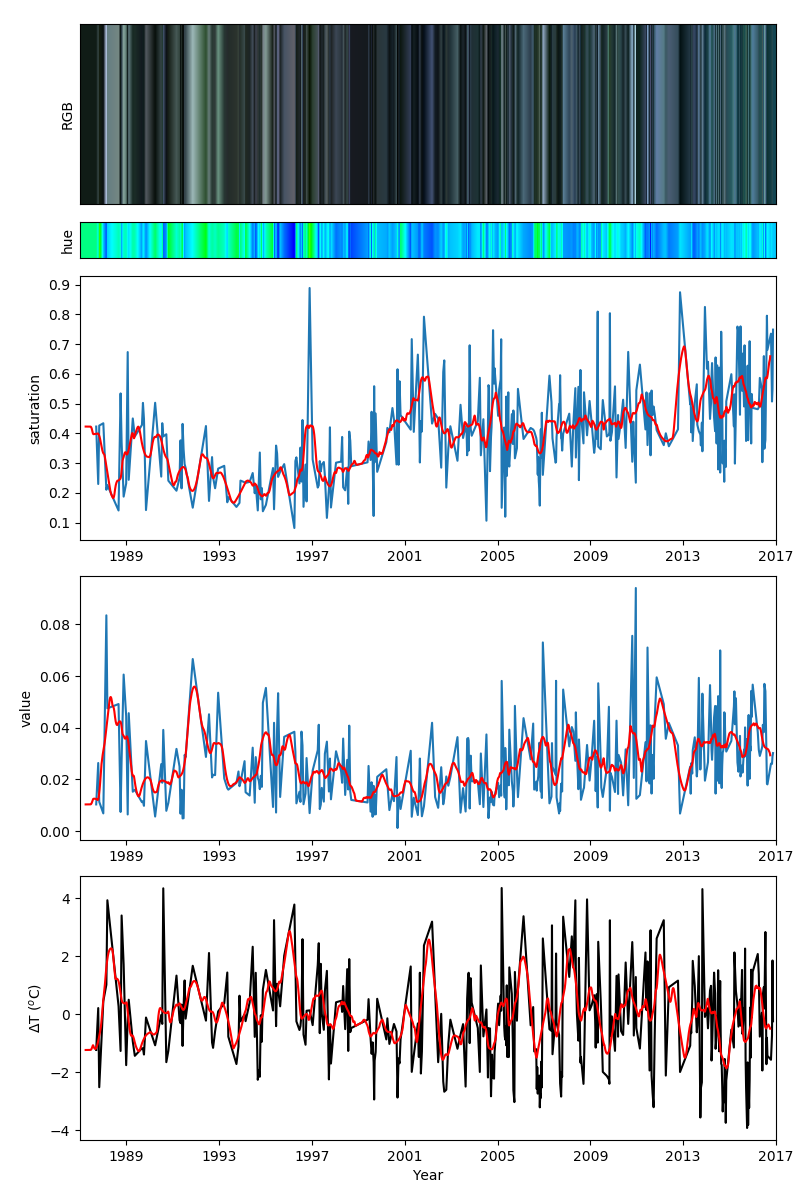
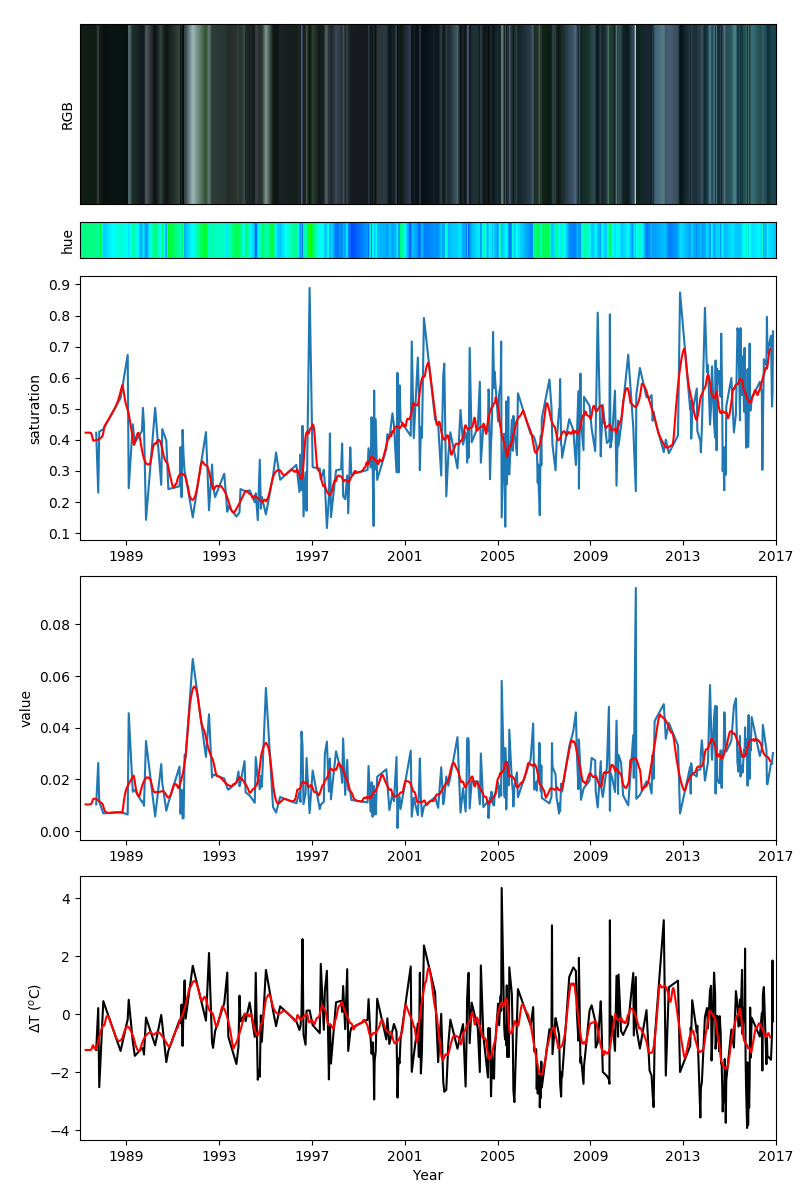
keeps only manually cloud filtered images

diff --git a/bin/baddies.py b/bin/baddies.py
@@ -4,42 +4,82 @@
 
 baddies.py
 
-A place to store the bad image files found manually.
+- a bad image files manager
 
-They will be removed AFTER atmospheric correction but BEFORE being saved
-to excel file output.
+1) manual selection
+2) cloud filtered
 
-Note > plots use the excel file
-
-
-Created on Wed Feb 22 11:45:25 2017
-@author: sam
+nb. removed after atmcorr but before excel (plots use excel)
 """
 
+import os
+import glob
+import datetime
 
 
-def naughty_list(target):
+def bad_fileIDs(target):
+  """
+  manually define bad fileIDs
+  """
   
-  bad_files = {
+  baddies = {
       
-      'Kelimutu_a':['LT51120662008282ASA00','LT51120661997331ASA00','LT51120661996345DKI00'],
-      
+      'Kelimutu_a':['LT51120662008282ASA00',\
+                    'LT51120661997331ASA00',\
+                    'LT51120661996345DKI00'],
       
       'Kelimutu_c': ['LT51120662000004ASA00'],
-                    
-                    
-      'Yugama':['LT51080352001058BJC00','LT51080352001138BJC01',\
-      'LT51080352002061BJC01','LT51080352002077BJC00','LT51080352002093BJC00']
+                  
+      'Yugama':['LT51080352001058BJC00',\
+                'LT51080352001138BJC01',\
+                'LT51080352002061BJC01',\
+                'LT51080352002077BJC00',\
+                'LT51080352002093BJC00']
       
       }
-      
-  if target in bad_files.keys():
-    
-    return bad_files[target]
   
+  if target in baddies.keys():
+    return baddies[target]
   else :
-    
     return []
+
+def cloud_filtered(data,target):
+  """
+  automatically assign bad fileIDs to images that do not pass cloud filter
+  """
+  
+  #1) cloud_filtered dates
+  cloud_filtered_dir = '/home/sam/Dropbox/HIGP/Crater_Lakes/Dmitri_Sam/Kelimutu/RGBs/cloud_filtered_(manually)/'
+  fpaths = glob.glob(cloud_filtered_dir+'*.tif')
+  good_dates = [os.path.basename(f).split('.')[0] for f in fpaths]
+  
+  #2) original fileIDs and dates
+  all_fileIDs = [x['fileID'] for x in data]
+  all_dates = [datetime.datetime.utcfromtimestamp(x['timestamp']) for x in data]
+
+  #3) compare dates, append baddies
+  
+  baddies = []
+  
+  for i, date in enumerate(all_dates):
+    if date.strftime('%Y_%m_%d_%H%M') not in good_dates:
+      baddies.append(all_fileIDs[i])
+  
+  return baddies
+  
+
+def naughty_list(data,target):
+  """
+  Compile the naughty list from manually selected fileIDs and cloud filter
+  assigned fileIDs
+  """
+  
+  baddies = bad_fileIDs(target)
+  baddies += cloud_filtered(data,target)
+  
+  return baddies
+      
+
       
 
   

diff --git a/atmcorr_to_EXCEL.py b/atmcorr_to_EXCEL.py
@@ -28,8 +28,7 @@ def timestamp_sort(dictionary):
 
 def remove_bad_data(data,target):
   
-  bad_files = naughty_list(target)
-  
+  bad_files = naughty_list(data,target)
   ok = np.array([x['fileID'] not in bad_files for x in data])
   
   return np.compress(ok,data)
@@ -50,7 +49,7 @@ def get_HSV(data):
   return hsv
   
 
-target = 'Kelimutu_c'
+target = 'Kelimutu_a'
 
 # Load all Landsat data into single chronological list
 L4 = load_sat(target,'L4')  
@@ -88,7 +87,7 @@ df = pd.DataFrame({
 
 
 # create output directory if necessary
-outdir = '/home/sam/Dropbox/HIGP/Crater_Lakes/Dmitri_Sam/data/'+target
+outdir = '/home/sam/Dropbox/HIGP/Crater_Lakes/Dmitri_Sam/Kelimutu/'+target
 if not os.path.exists(outdir):
   os.mkdir(outdir)
 os.chdir(outdir)

diff --git a/bin/plot_time_series_v5.py b/bin/plot_time_series_v5.py
@@ -120,7 +120,8 @@ def plot_timeseries(ax,t,dt,y,start,stop,ylabel=False,color='#1f77b4'):
 
 # read data
 target = 'Kelimutu_c'
-df = pd.read_excel('/home/sam/Dropbox/HIGP/Crater_Lakes/Dmitri_Sam/data/{0}/{0}_satellite.xlsx'.format(target))
+base_dir = '/home/sam/Dropbox/HIGP/Crater_Lakes/Dmitri_Sam/Kelimutu'
+df = pd.read_excel('{0}/{1}/{1}_satellite.xlsx'.format(base_dir,target))
 r,g,b,h,s,v,t,dBT,dt = null_handler(df)
 
 # define time period
